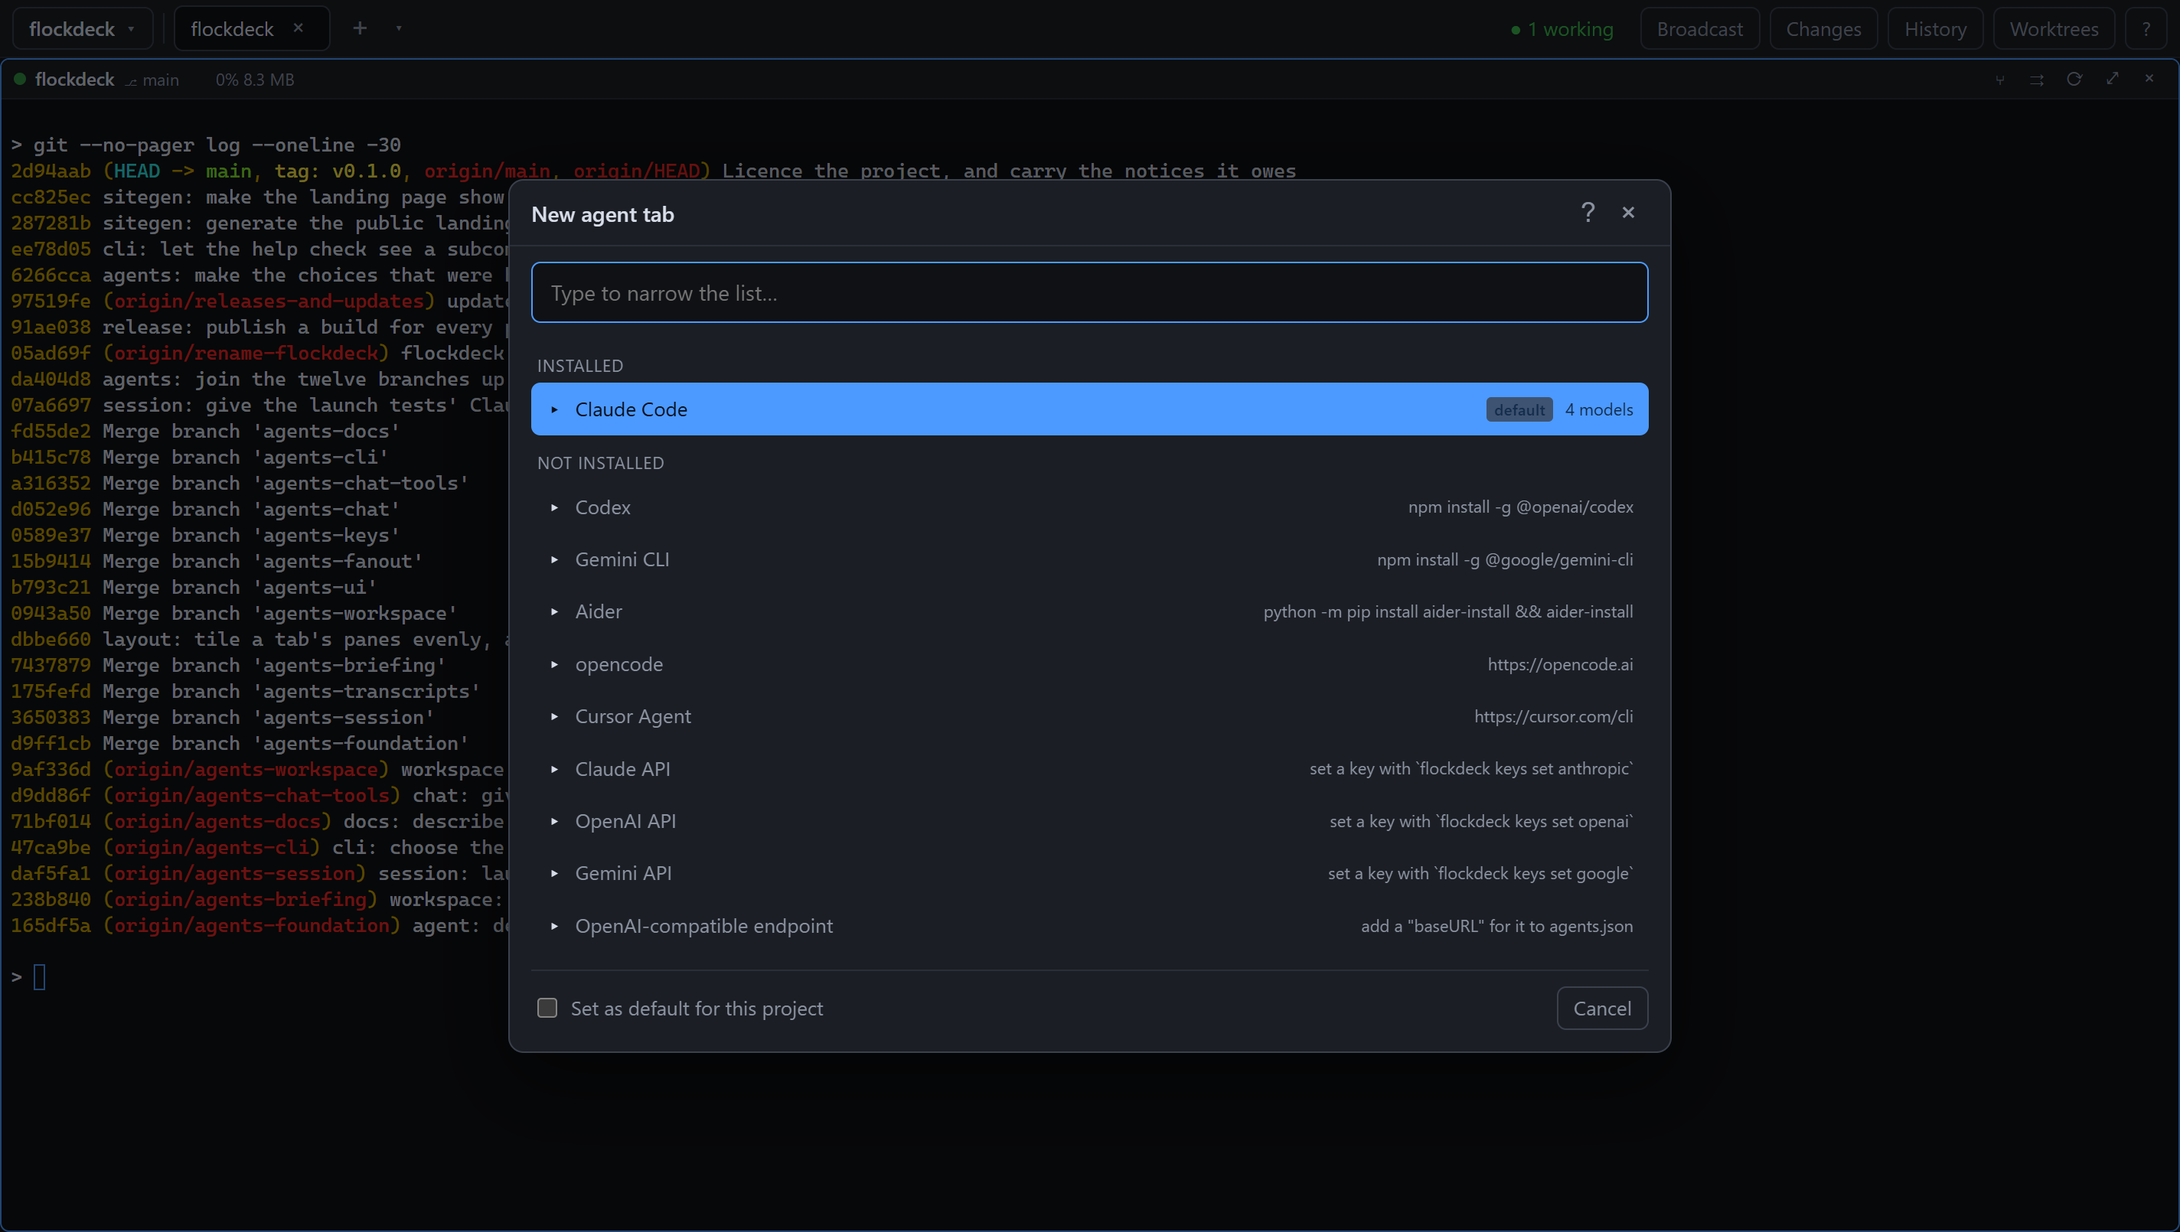
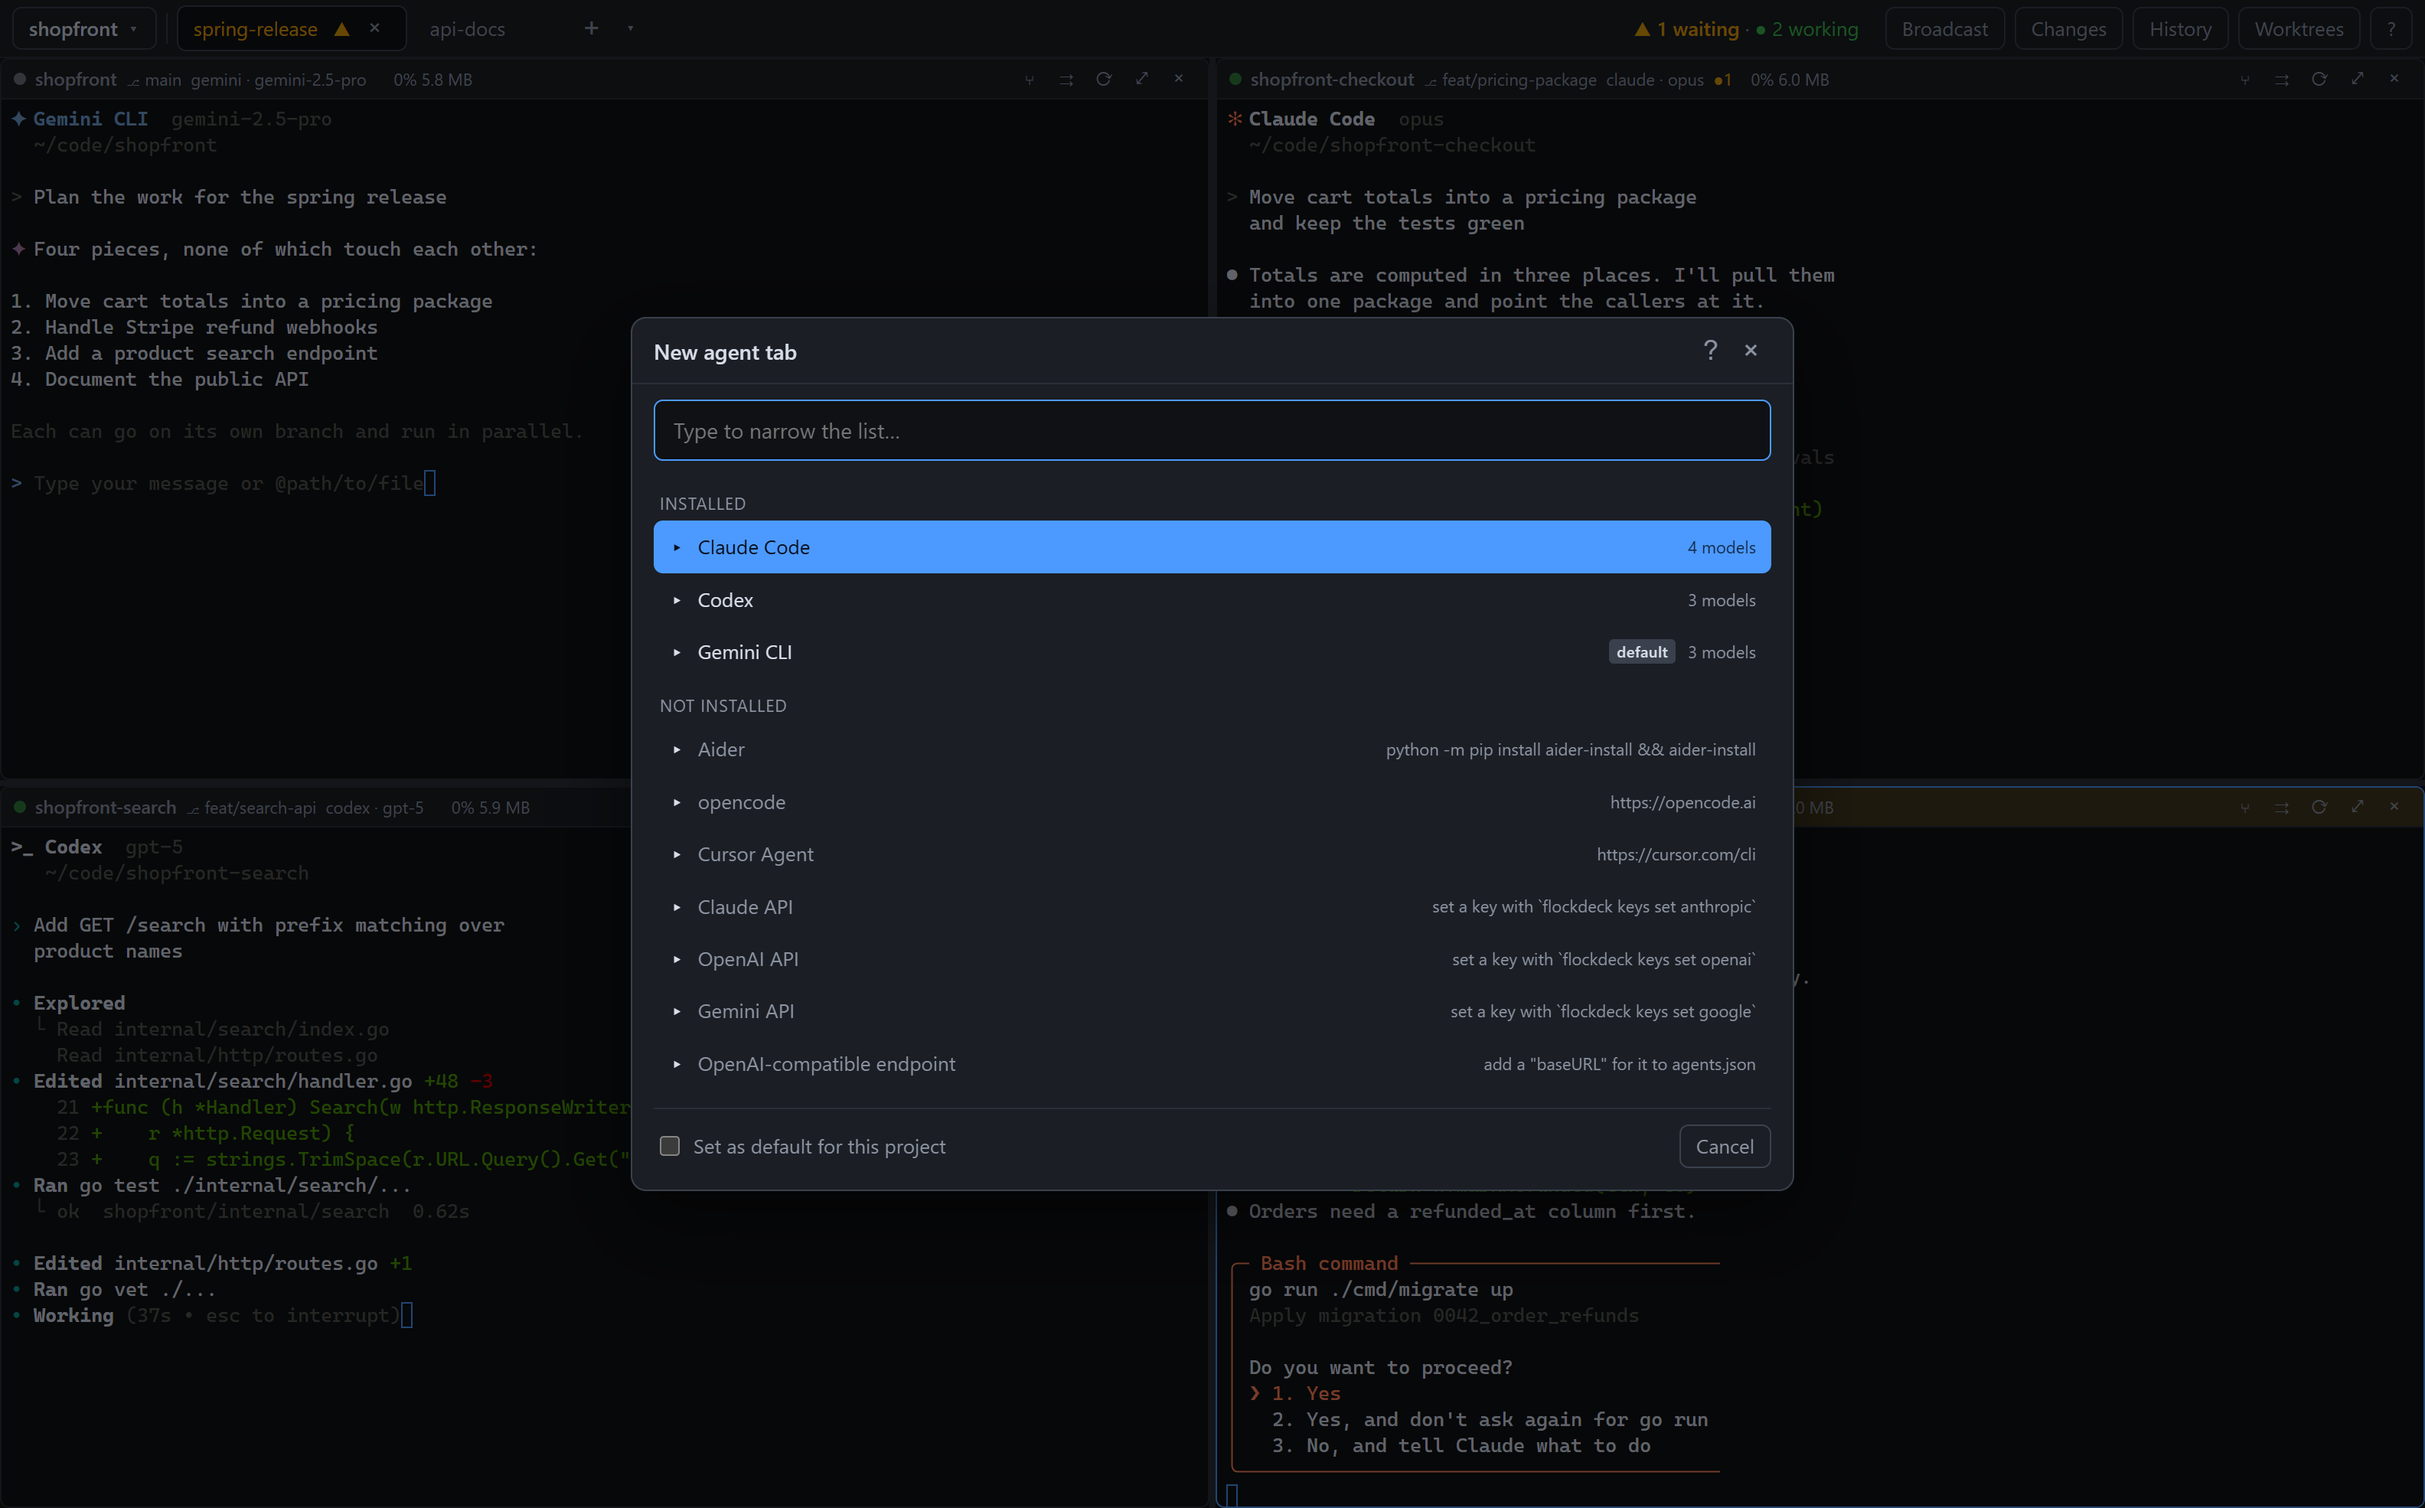
sitegen: retake the picker over the staged deck
The picker was the one screenshot left from before the others were staged:
a git log behind the dialog, and a narrower window, so it needed cropping to
sit beside the worktrees panel. It is now taken the same way and at the same
size as the rest, over the same four agents, with Claude Code, Codex and
Gemini CLI installed. The crop goes with the need for it.

The update check was turned off for the capture, so the top bar shows no
badge for a release newer than the build that was staged.

Claude-Session: https://claude.ai/code/session_01PfywtNLBp2uP5KvZgJGbY3

diff --git a/cmd/sitegen/assets/site.css b/cmd/sitegen/assets/site.css
@@ -336,11 +336,7 @@ h2 {
   box-shadow: var(--shadow);
 }
 .fan + .figure { margin-top: 34px; }
-.pair { display: grid; grid-template-columns: repeat(2, minmax(0, 1fr)); gap: 22px; align-items: start; }
-/* The two captures were taken at slightly different window sizes; one shape
-   for both keeps their captions on one line. */
-.pair .figure img { aspect-ratio: 1584 / 985; object-fit: cover; object-position: center top; }
-@media (max-width: 880px) {
+.pair { display: grid; grid-template-columns: repeat(2, minmax(0, 1fr)); gap: 22px; align-items: start; }@media (max-width: 880px) {
   .pair { grid-template-columns: 1fr; }
 }
 
